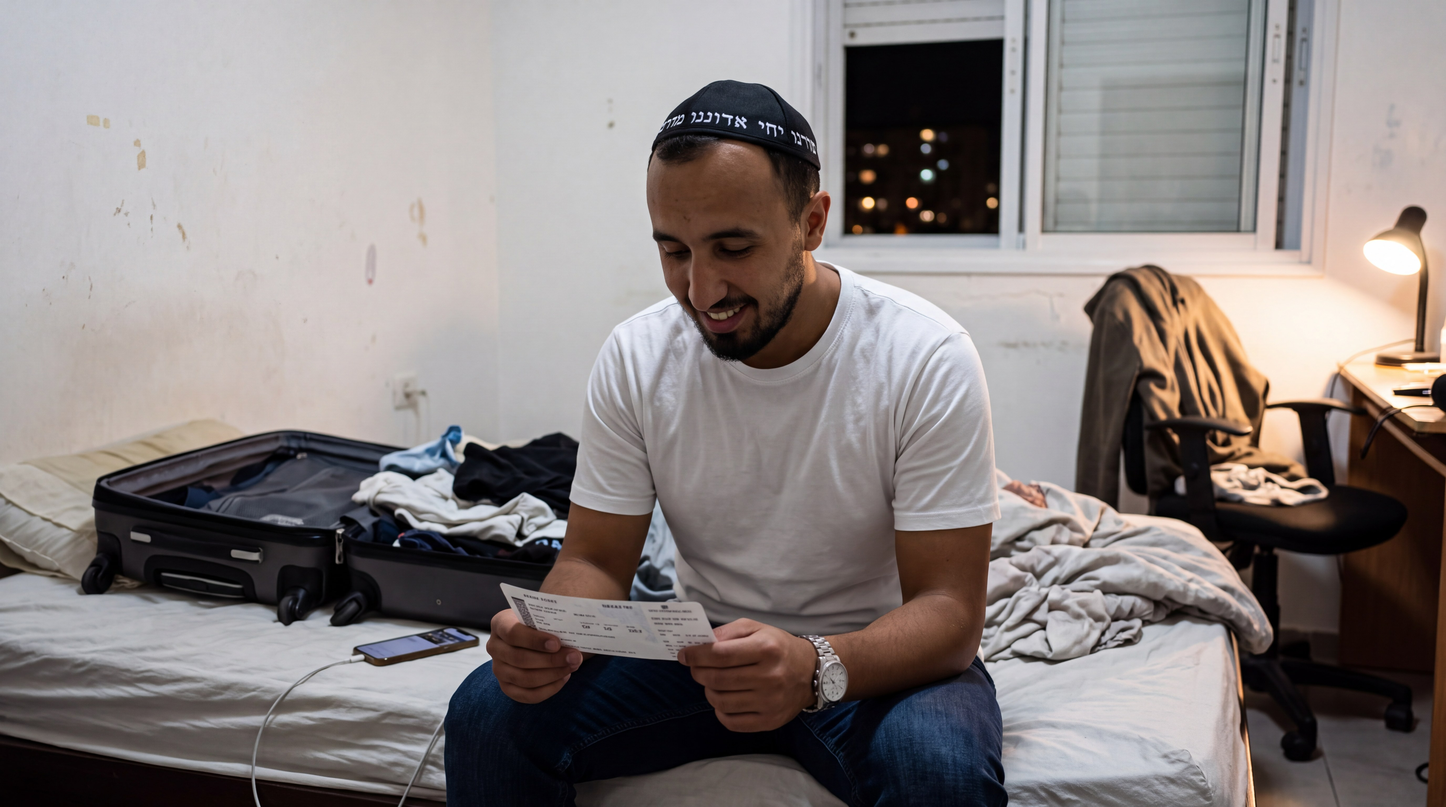
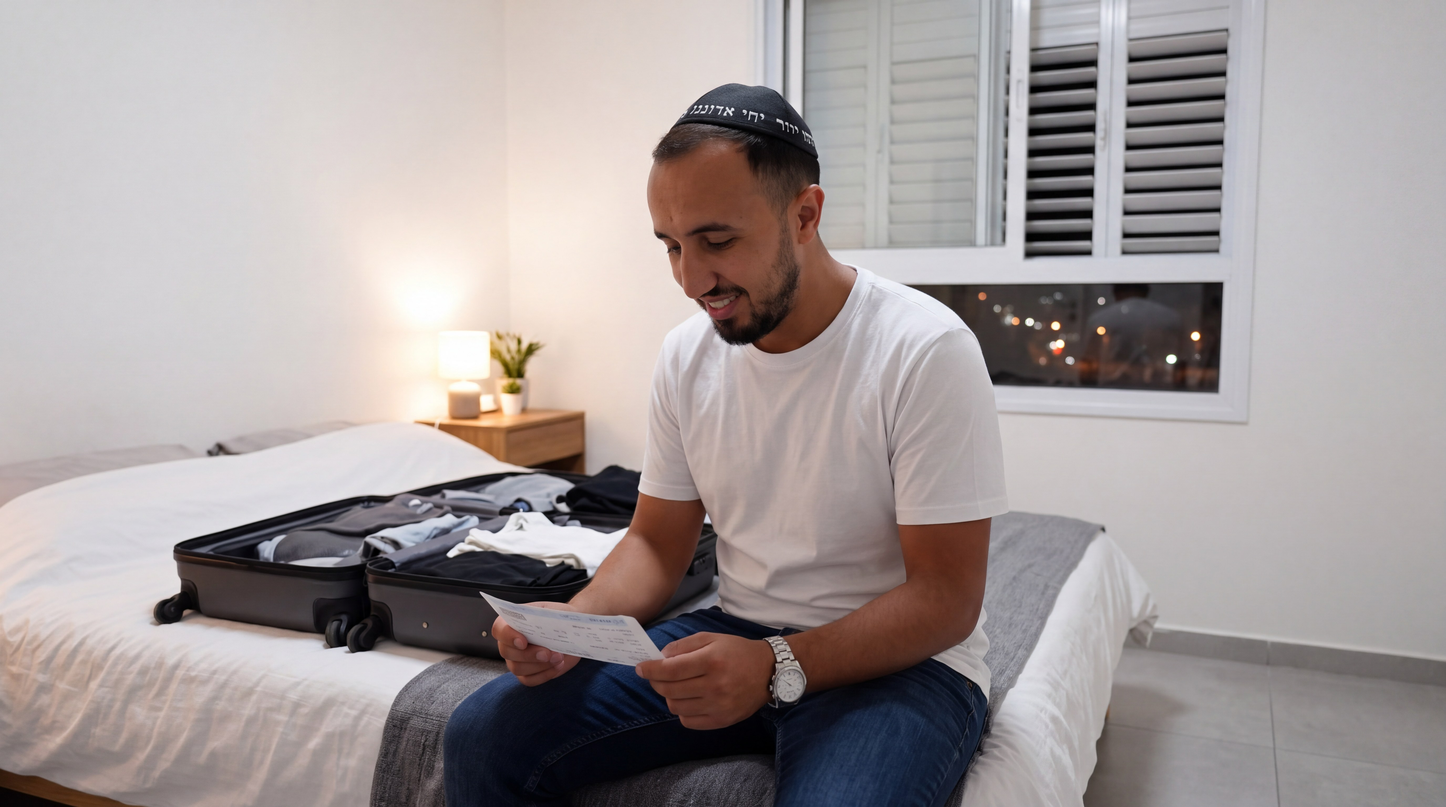
Shirel & Lyron : valise et réaction de Lyron refaites
Claude-Session: https://claude.ai/code/session_01FDkXSruYP2nSK7GDo2br1M

diff --git a/outputs/shirel-lyron/04-controle-qualite.md b/outputs/shirel-lyron/04-controle-qualite.md
@@ -130,7 +130,8 @@ Fitted white long-sleeve mini dress in a soft, slightly sheer jersey, high round
 | Scène 1 v5 : 6 images clés (prompts de la version validée, nouveaux visages/tenues) | 1.1 `0ac3314d-d3c1-417a-8cbe-2295ef138c9c` · 1.2a `2574696a-7b07-40b0-8500-31df49febc47` · 1.2d `074eedac-a8ac-43d9-a82d-89414ee16c10` (1er essai échoué, remboursé ; relancé avec gros plan kippa `c0115fde…`) · 1.3 `0173a11b-954c-4717-9e1f-63b7352676a1` · 1.3b `f74d9561-bafa-49a5-9b8d-74d505f99d91` · 1.4 `889beb73-fe1f-47e4-83f0-34db3d0e3c28`. Kippa : nettement mieux sur 1.2d mais 1-2 lettres imparfaites ; 1.2a et 1.4 faites sans le gros plan kippa (lettres approximatives). 1.3 : cheveux un peu plus courts que le sheet | 18 |
 | 1.2a refait à neuf (Samuel : « filtre bizarre » — cause : retouche d'une image déjà retouchée, violation de la règle A2) + 1.4 refait avec le gros plan kippa | 1.2a `d5479c71-3b77-41e6-962b-00e45304498a` : couleurs naturelles, kippa lisible (« אדוננו »), rabbin bouche fermée ✓ · 1.4 `96d693e0-702e-456c-aa5e-295987dcb765` : kippa lisible (« יחי אדוננו »), visage conforme ✓ | 6 |
 | Test 1.4 (kippa à la bonne taille + golfes atténués) | `3cd4f51c-23c8-4aa9-836a-ad3ebaba5017` : kippa nettement plus petite, proche du sheet, lettres lisibles ; golfes à peine visibles ✓. Décor encore sale (ancien prompt) → image de test seulement | 3 |
-| **Total dépensé** | | **548 cr** |
+| 3 plans Lyron finaux (petite kippa, golfes atténués, chambre propre) | 1.4 `56e1eebd-23ac-4e88-ac2a-21fbcec6dd52` ✓ chambre propre, petite kippa lisible, golfes à peine visibles · 1.2d `23cc3797-0a4e-444f-91b5-5f775c1773d6` : petite kippa ✓ mais golfes encore assez visibles · 1.2a `26f389e7-333a-40ce-9a0c-11ce4915eb91` : ÉCHEC, la retouche n'a pas réduit la kippa (identique à avant) | 9 |
+| **Total dépensé** | | **557 cr** |
 
 **Références Shirel définitives (v5) :** sheet `da688b2a-951a-4108-a7b6-d6e8cca2e108` · photo réelle `5fc6f1cb-77f2-4008-902c-b8287a3862b6` · T1 voyage `e38c01ef-40d5-47a2-afbc-776a7ba2cd00` · T2 `0b9e3e4a-60aa-4238-befb-4832e5befcdf` · T3 `d951d6b5-89e3-4e50-8d18-107bcc6e47a5` · T4 `b8c2ecc2-d75c-4051-a160-1134c45960b7` · Sourires `39c2ea5a-757e-43e5-a729-688fda2fb476`.
 
